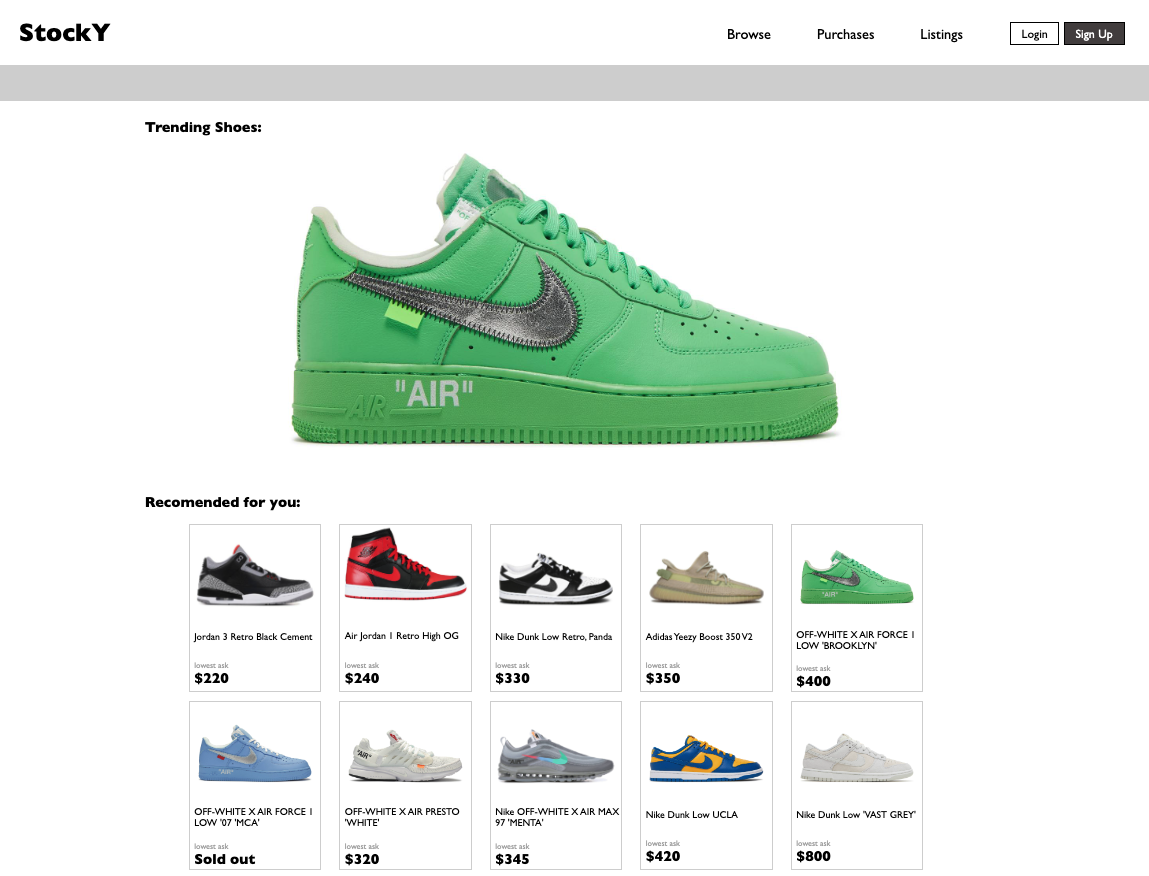
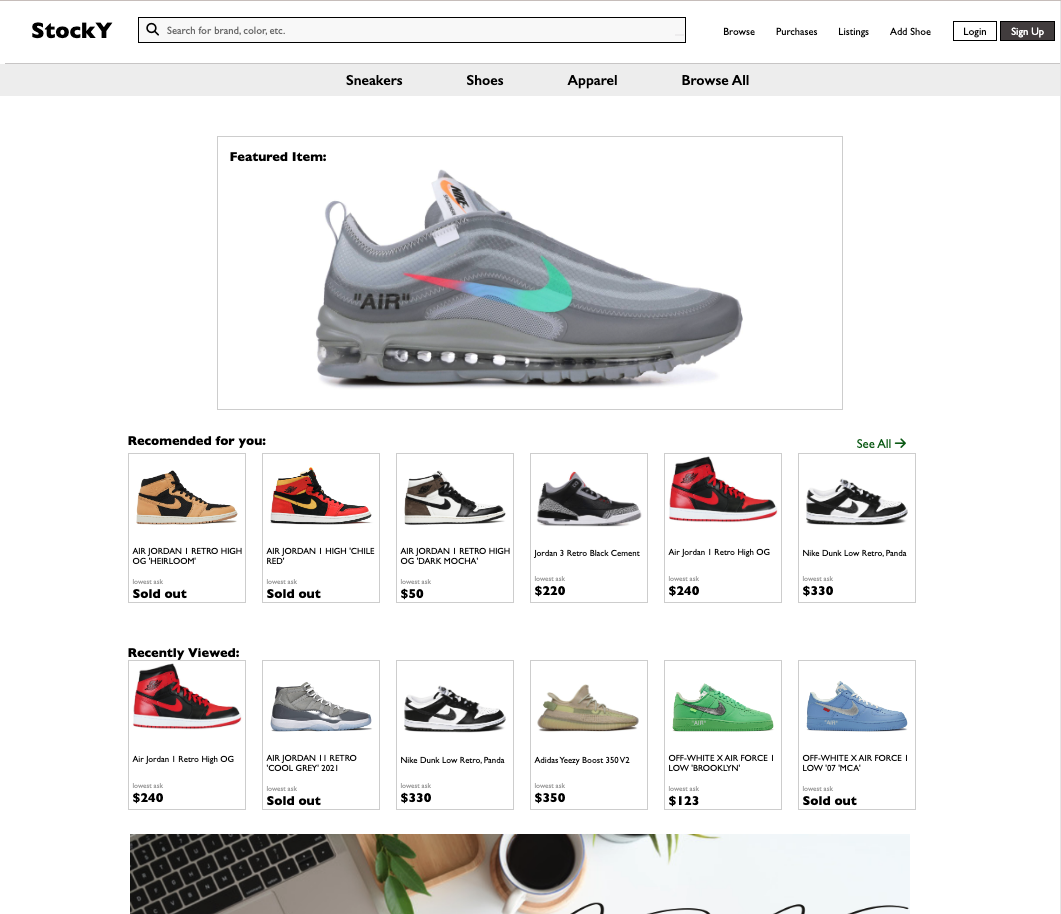
updated a few pictures on the readme page

diff --git a/README.md b/README.md
@@ -36,11 +36,26 @@
 
 ## Home Page
 
-* Here you can view all of the shoes that are currently in the database. 
 * In the top right corner, you will see `Sign Up` and `Login` buttons to officially list or purchase shoes.
+* There is a search bar feature to search the shoe you want
+* Auto Rotating Image Carousel with clickable links to direct to the featured shoe
+* Recently Viewed Feature that tracks your recently viewed shoe from the main page.
 
 ![image](./proposal-img/main2.png)
 ![image](./proposal-img/main1.png)
+
+
+## Browse Page
+
+* Here you can view all of the shoes that are currently in the database. 
+* Pagination that allows you to look at different pages
+* Filter feature that allows you to look for specific brands and sizes
+
+
+![image](./proposal-img/browse1.png)
+![image](./proposal-img/browse2.png)
+![image](./proposal-img/browse3.png)
+
 
 
 ## Signup / Login Page
